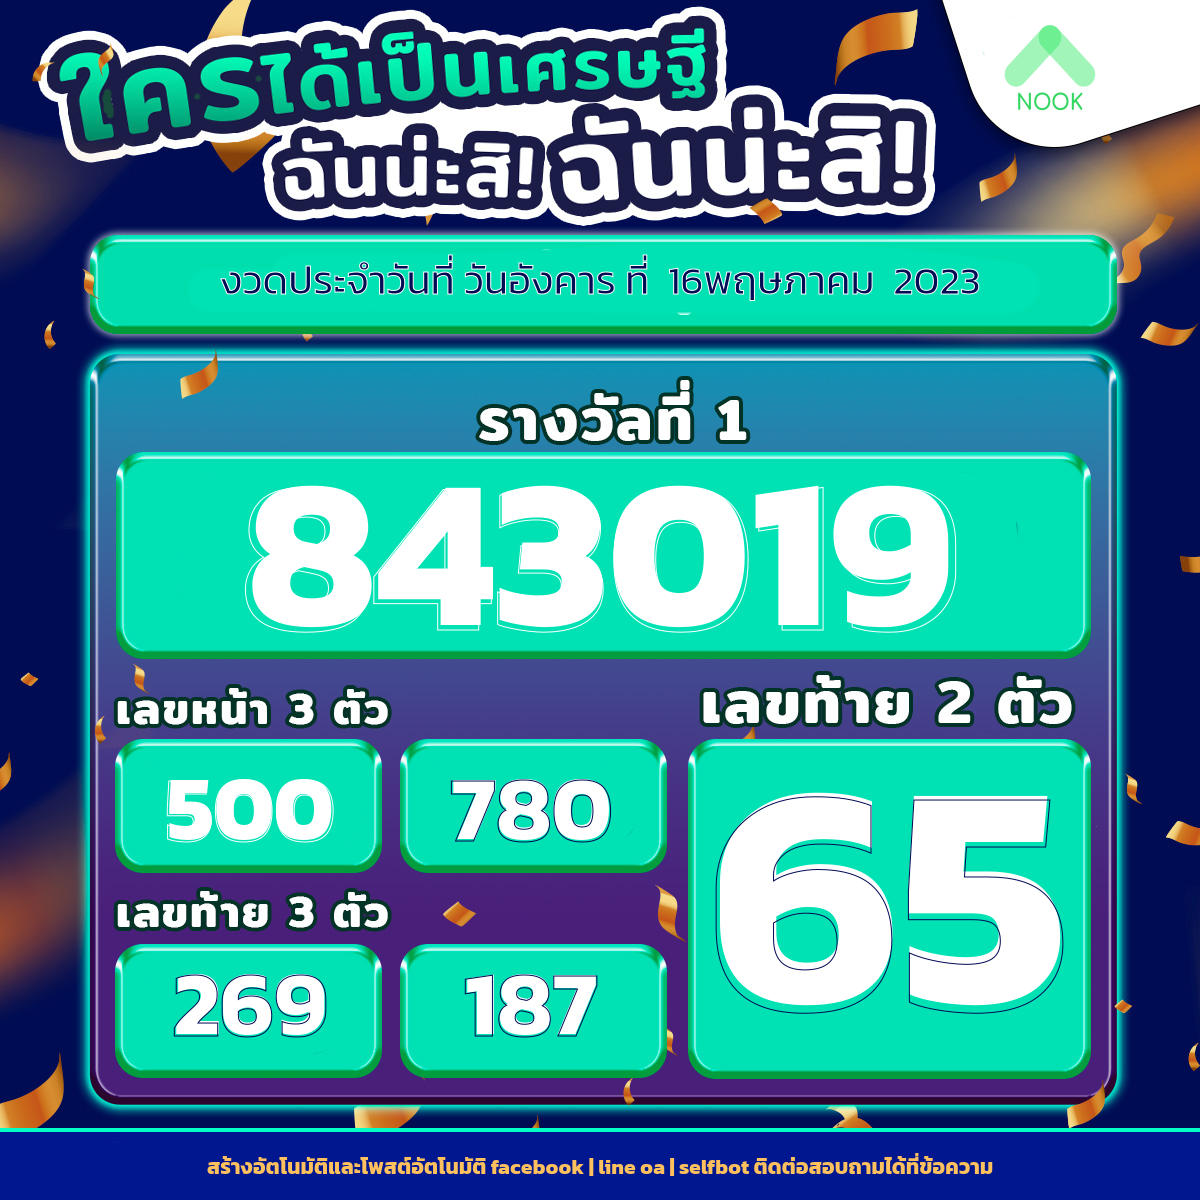
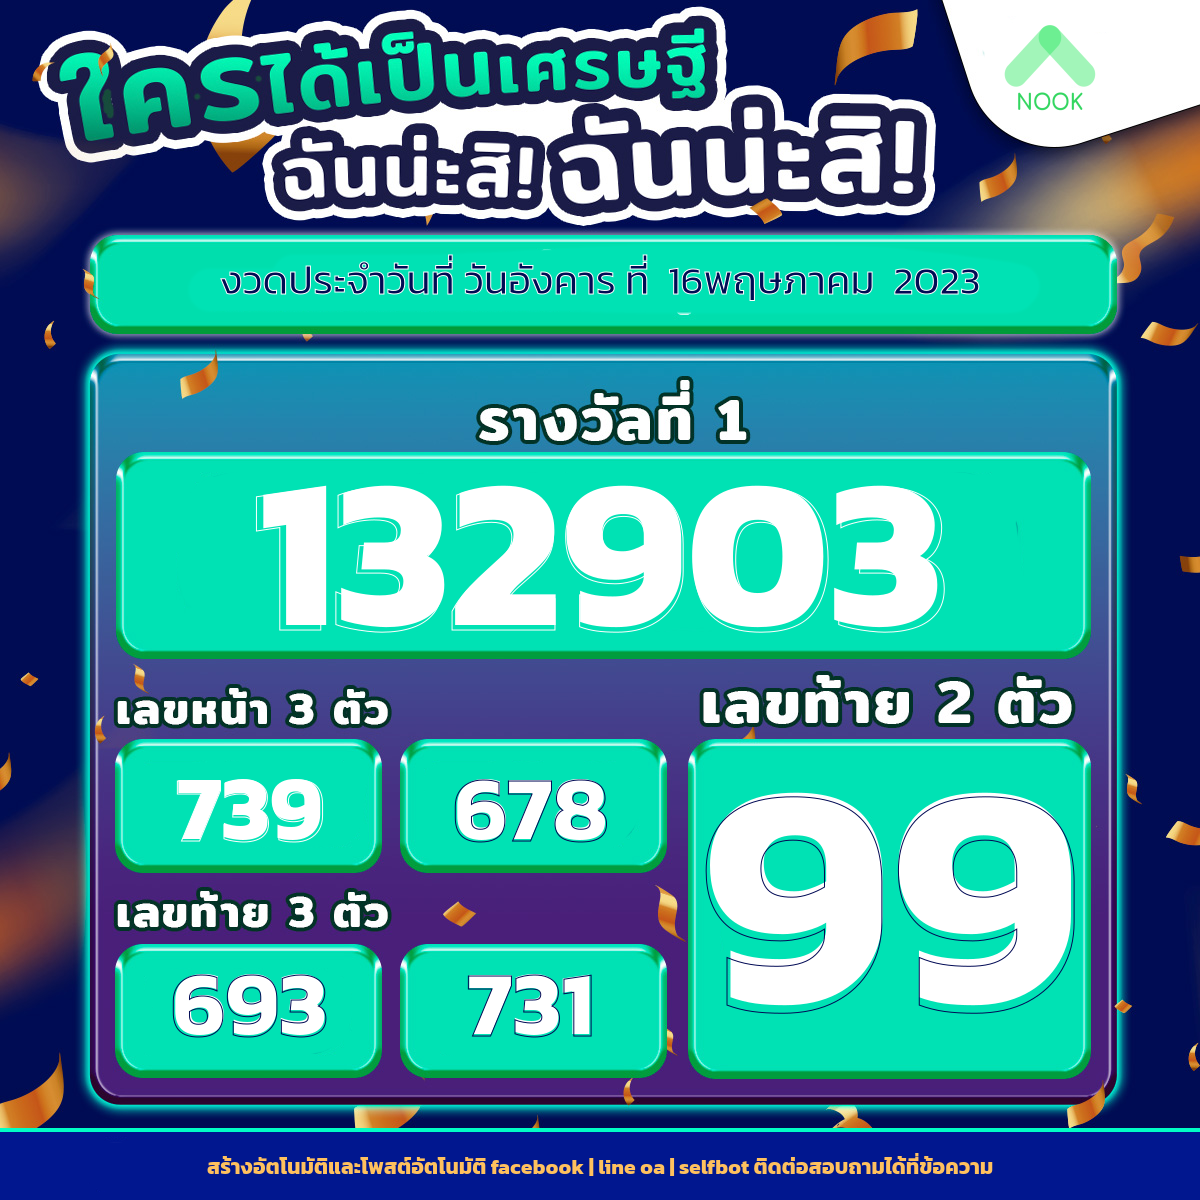
หห

diff --git a/index.js b/index.js
@@ -106,7 +106,7 @@ reflottoX1.on("child_changed", async (snapshot) => {
       number2_lotto: numLotto.number?.[1],
     };
   });
-  ggx1img(lottoRex3, snapshot.val()[0]);
+  ggx1img(lottoRex3, snapshot.val());
 });
 
 async function ggx1img(Rex3, dataLotto) {
